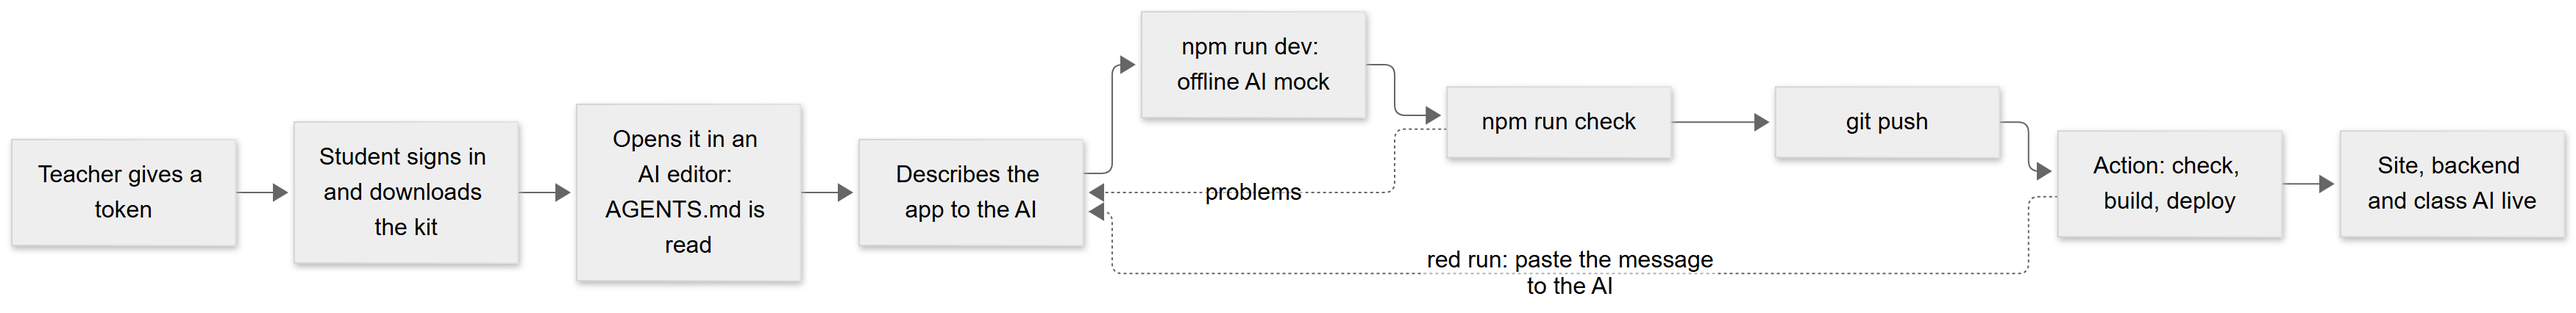
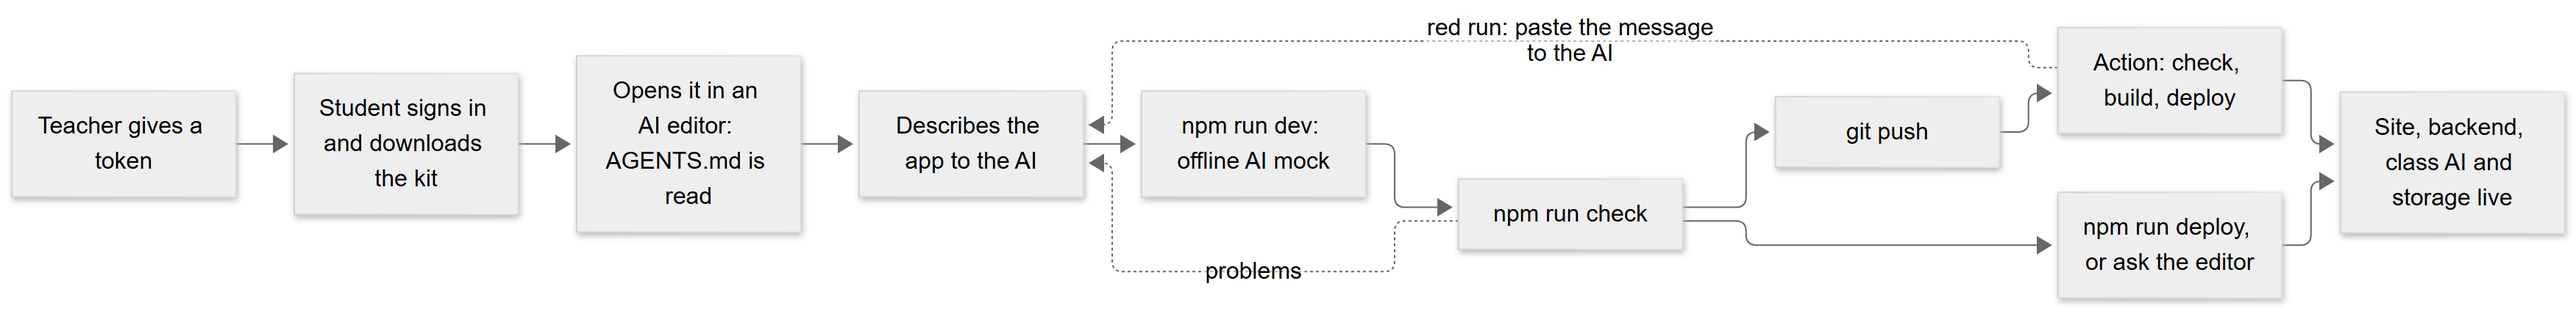
docs: kit diagram in the specification shows the deploy-from-computer route

diff --git a/docs/TECHNICAL_SPECIFICATION.md b/docs/TECHNICAL_SPECIFICATION.md
@@ -625,7 +625,7 @@ sequenceDiagram
 
 The kit makes the student's AI editor build inside the architecture ([STUDENT_KIT.md](STUDENT_KIT.md) has the full text):
 
-<!-- diagram:3b9ec8ec -->
+<!-- diagram:dceca84d -->
 ![Diagram: 4.11 Student kit (F11)](diagrams/technical-specification/14-4-11-student-kit-f11.png)
 
 <details><summary>Diagram source (Mermaid, editable; GitHub also draws it)</summary>
@@ -638,8 +638,10 @@ flowchart LR
   D --> E["npm run dev: offline AI mock"]
   E --> F["npm run check"]
   F --> G["git push"]
+  F --> J["npm run deploy, or ask the editor"]
   G --> H["Action: check, build, deploy"]
-  H --> I["Site, backend and class AI live"]
+  H --> I["Site, backend, class AI and storage live"]
+  J --> I
   F -. "problems" .-> D
   H -. "red run: paste the message to the AI" .-> D
 ```
